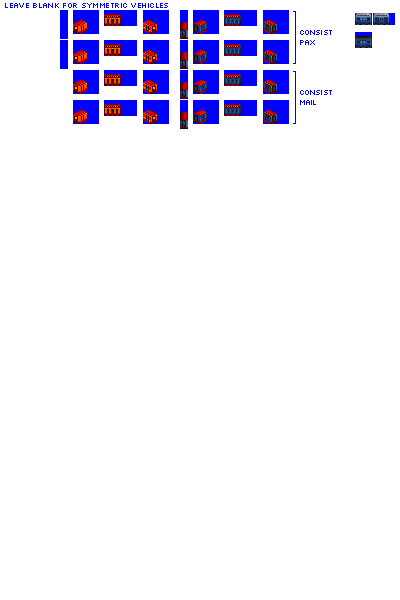
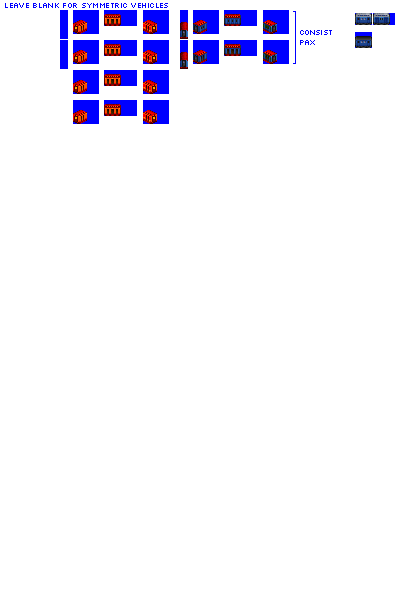
Change: swap express car gestalt to box car with opening doors

Changed region(s): [[0.45, 0.06, 0.81, 0.24]]

diff --git a/src/train.py b/src/train.py
@@ -690,7 +690,9 @@ class BoxCarConsist(CarConsist):
         self.allow_flip = True
         # Graphics configuration
         self.roof_type = 'freight'
-        self.gestalt_graphics = GestaltGraphicsBoxCarOpeningDoors(recolour_maps=graphics_constants.box_livery_recolour_maps)
+        self.gestalt_graphics = GestaltGraphicsBoxCarOpeningDoors(
+            id_base='box_car',
+            recolour_maps=graphics_constants.box_livery_recolour_maps)
 
 
 class CabooseCarConsist(CarConsist):
@@ -802,22 +804,11 @@ class ExpressCarConsist(CarConsist):
         self.weight_factor = polar_fox.constants.mail_multiplier
         self.running_cost_adjustment_factor = 1.1
         self.allow_flip = True
-        self.random_company_colour_swap = False
-        # Graphics configuration
         # Graphics configuration
         self.roof_type = 'freight'
-        # mail cars have consist cargo mappings for pax, mail (freight uses mail)
-        # * pax matches pax liveries for generation
-        # * mail gets a TPO/RPO striped livery, and a 1CC/2CC duotone livery
-        # * solid block can be used, but looks like freight cars, so duotone liveries are preferred (see caboose cars for inspiration)
-        # position based variants
-        # longer mail cars get an additional sprite option in the consist ruleset; shorter mail cars don't as it's TMWFTLB
-        # * windows or similar variation for first, last vehicles (maybe also every nth vehicle?)
-        brake_car_sprites = 1 if self.subtype in ['B', 'C'] else 0
-        bonus_sprites = 2 if self.subtype in ['C'] else 0
-        spriterow_group_mappings = {'mail': {'default': 0, 'first': brake_car_sprites, 'last': brake_car_sprites, 'special': bonus_sprites},
-                                    'pax': {'default': 0, 'first': 0, 'last': 0, 'special': 0}}
-        self.gestalt_graphics = GestaltGraphicsConsistSpecificLivery(spriterow_group_mappings, consist_ruleset='mail_cars')
+        self.gestalt_graphics = GestaltGraphicsBoxCarOpeningDoors(
+            id_base='express_car',
+            recolour_maps=graphics_constants.box_livery_recolour_maps)
 
 
 class FlatCarConsist(CarConsist):
@@ -858,6 +849,7 @@ class FruitVegCarConsist(CarConsist):
         # Graphics configuration
         self.roof_type = 'freight'
         self.gestalt_graphics = GestaltGraphicsBoxCarOpeningDoors(
+            id_base='box_car',
             recolour_maps=graphics_constants.fruit_veg_livery_recolour_maps)
 
 
@@ -1084,6 +1076,7 @@ class ReeferCarConsist(CarConsist):
         # Graphics configuration
         self.roof_type = 'freight'
         self.gestalt_graphics = GestaltGraphicsBoxCarOpeningDoors(
+            id_base='box_car',
             recolour_maps=graphics_constants.refrigerated_livery_recolour_maps)
 
 

diff --git a/src/gestalt_graphics/pipelines.py b/src/gestalt_graphics/pipelines.py
@@ -432,13 +432,12 @@ class ExtendSpriterowsForCompositedSpritesPipeline(Pipeline):
             self.units.append(AppendToSpritesheet(pax_mail_car_rows_image_as_spritesheet, crop_box_dest))
 
     def add_box_car_with_opening_doors_spriterows(self):
-        # all wagons using this gestalt repaint the relevant box car sprite for the wagon's generation and subtype
+        # all wagons using this gestalt repaint the relevant base sprite for the wagon's generation and subtype
+        id_base = self.consist.gestalt_graphics.id_base
         if self.consist.base_track_type == 'NG':
-            id_base='box_car_ng'
-        else:
-            id_base='box_car'
-        box_car_id = self.consist.get_wagon_id(id_base=id_base, roster=self.consist.roster.id, gen=self.consist.gen, subtype=self.consist.subtype)
-        box_car_input_path = os.path.join(currentdir, 'src', 'graphics', self.consist.roster_id, box_car_id + '.png')
+            id_base = id_base + '_ng'
+        box_car_id = self.consist.get_wagon_id(id_base=id_base, roster=self.consist.roster.id, gen=self.consist.gen, subtype=self.consist.subtype + '.png')
+        box_car_input_path = os.path.join(currentdir, 'src', 'graphics', self.consist.roster_id, box_car_id)
 
         # two spriterows, closed doors and open doors
         crop_box_source_1 = (0,

diff --git a/src/gestalt_graphics/gestalt_graphics.py b/src/gestalt_graphics/gestalt_graphics.py
@@ -187,6 +187,7 @@ class GestaltGraphicsBoxCarOpeningDoors(GestaltGraphics):
         # common format for recolour_maps provides multiple remaps
         # but just one livery remap is supported for this gestalt, and should be the first in the remap list
         self.recolour_map = recolour_maps[0][1]
+        self.id_base = kwargs.get('id_base')
 
     @property
     def generic_rows(self):
